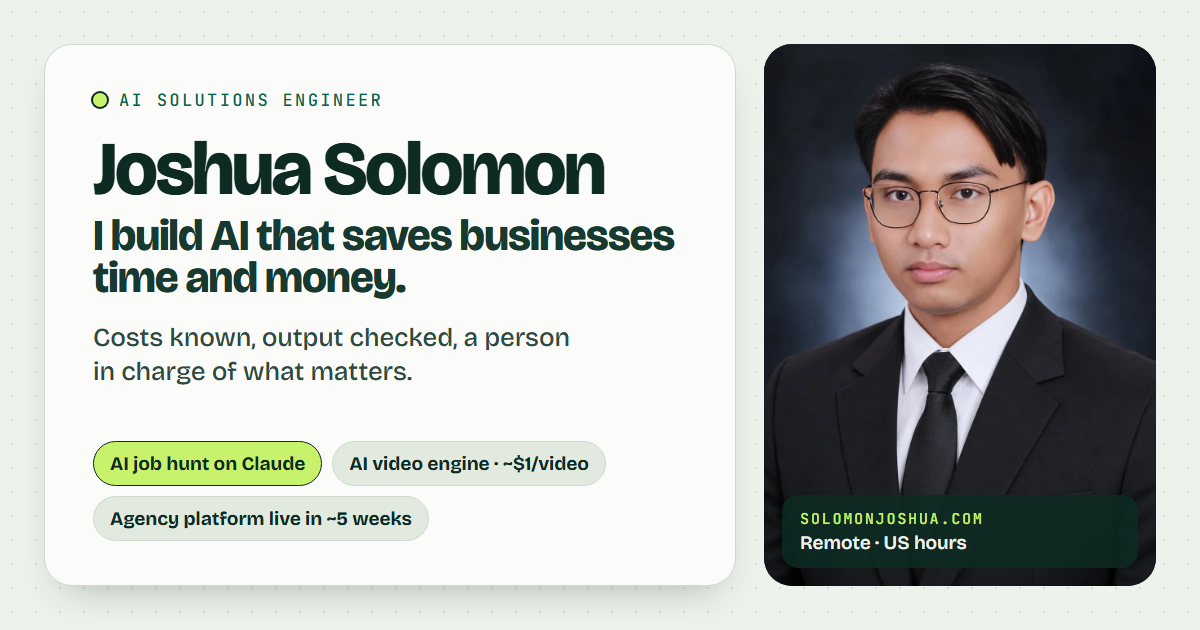
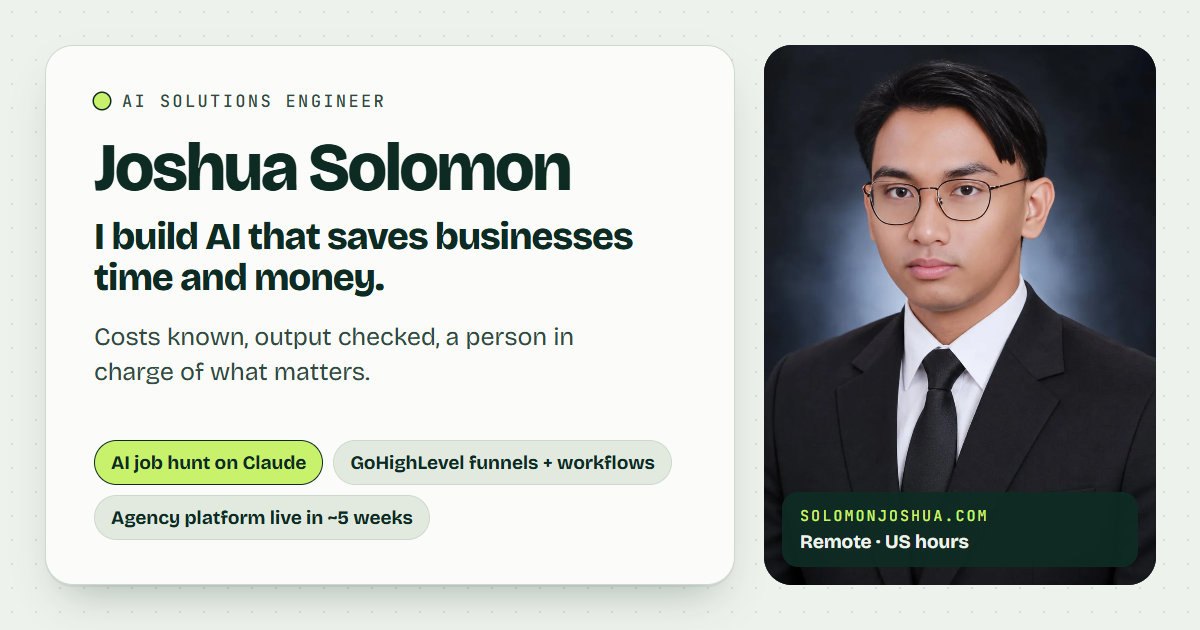
feat: og card without the retired case, with its HTML source

diff --git a/og-card.html b/og-card.html
@@ -1,0 +1,46 @@
+<!doctype html>
+<!-- Source for public/og.png (1200x630). Serve the repo root (python -m http.server) and take a
+     1200x630 headless-Chrome screenshot of /og-card.html. Not deployed (outside public/). -->
+<html lang="en">
+<head>
+<meta charset="utf-8" />
+<style>
+  @font-face { font-family: Brico; src: url(node_modules/@fontsource-variable/bricolage-grotesque/files/bricolage-grotesque-latin-opsz-normal.woff2) format('woff2'); font-weight: 200 800; }
+  @font-face { font-family: JBM; src: url(node_modules/@fontsource/jetbrains-mono/files/jetbrains-mono-latin-500-normal.woff2) format('woff2'); font-weight: 500; }
+  * { box-sizing: border-box; margin: 0; }
+  html, body { width: 1200px; height: 630px; }
+  body { font-family: Brico, sans-serif; font-optical-sizing: auto; background: #EEF2EC radial-gradient(rgba(13,43,35,.10) 1px, transparent 1.2px) 0 0 / 24px 24px; position: relative; overflow: hidden; color: #0D2B23; }
+  .card { position: absolute; left: 45px; top: 45px; width: 690px; height: 540px; background: #FBFCF9; border: 1px solid #CDD9CE; border-radius: 28px; box-shadow: 0 2px 0 rgba(13,43,35,.06), 0 22px 44px -18px rgba(13,43,35,.32); padding: 44px 48px; }
+  .kicker { display: flex; align-items: center; gap: 12px; font-family: JBM; font-size: 17px; letter-spacing: .14em; color: #2F4A41; }
+  .dot { width: 16px; height: 16px; border-radius: 50%; background: #C9F26C; box-shadow: 0 0 0 1.5px #0D2B23; }
+  h1 { margin-top: 22px; font-size: 68px; font-weight: 800; letter-spacing: -.035em; line-height: 1; }
+  .outcome { margin-top: 14px; font-size: 38px; font-weight: 800; letter-spacing: -.025em; line-height: 1.08; }
+  .lead { margin-top: 22px; font-size: 25px; line-height: 1.4; color: #2F4A41; max-width: 500px; }
+  .chips { position: absolute; left: 48px; right: 40px; bottom: 44px; display: flex; flex-wrap: wrap; gap: 10px; }
+  .chip { padding: 10px 16px; border-radius: 999px; background: #E2EAE0; border: 1px solid #CDD9CE; font-size: 19px; font-weight: 700; }
+  .chip.lime { background: #C9F26C; border: 1.5px solid #0D2B23; }
+  .photo { position: absolute; left: 764px; top: 45px; width: 392px; height: 540px; border-radius: 28px; overflow: hidden; background: #0D2B23; }
+  .photo img { width: 100%; height: 100%; object-fit: cover; object-position: 50% 20%; }
+  .badge { position: absolute; left: 18px; right: 18px; bottom: 18px; padding: 14px 18px; border-radius: 16px; background: rgba(13,43,35,.92); }
+  .badge .url { font-family: JBM; font-size: 15px; letter-spacing: .14em; color: #C9F26C; }
+  .badge .where { margin-top: 4px; font-size: 19px; font-weight: 700; color: #EEF2EC; }
+</style>
+</head>
+<body>
+  <div class="card">
+    <p class="kicker"><span class="dot"></span>AI SOLUTIONS ENGINEER</p>
+    <h1>Joshua Solomon</h1>
+    <p class="outcome">I build AI that saves businesses<br />time and money.</p>
+    <p class="lead">Costs known, output checked, a person in charge of what matters.</p>
+    <div class="chips">
+      <span class="chip lime">AI job hunt on Claude</span>
+      <span class="chip">GoHighLevel funnels + workflows</span>
+      <span class="chip">Agency platform live in ~5 weeks</span>
+    </div>
+  </div>
+  <div class="photo">
+    <img src="public/joshua-solomon.webp" alt="" />
+    <div class="badge"><p class="url">SOLOMONJOSHUA.COM</p><p class="where">Remote · US hours</p></div>
+  </div>
+</body>
+</html>
